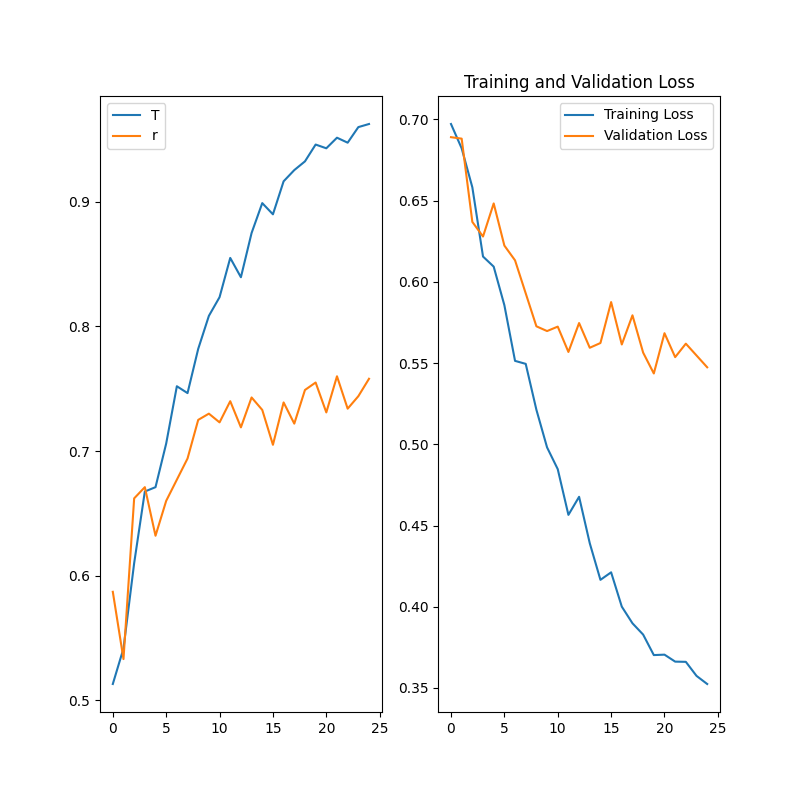
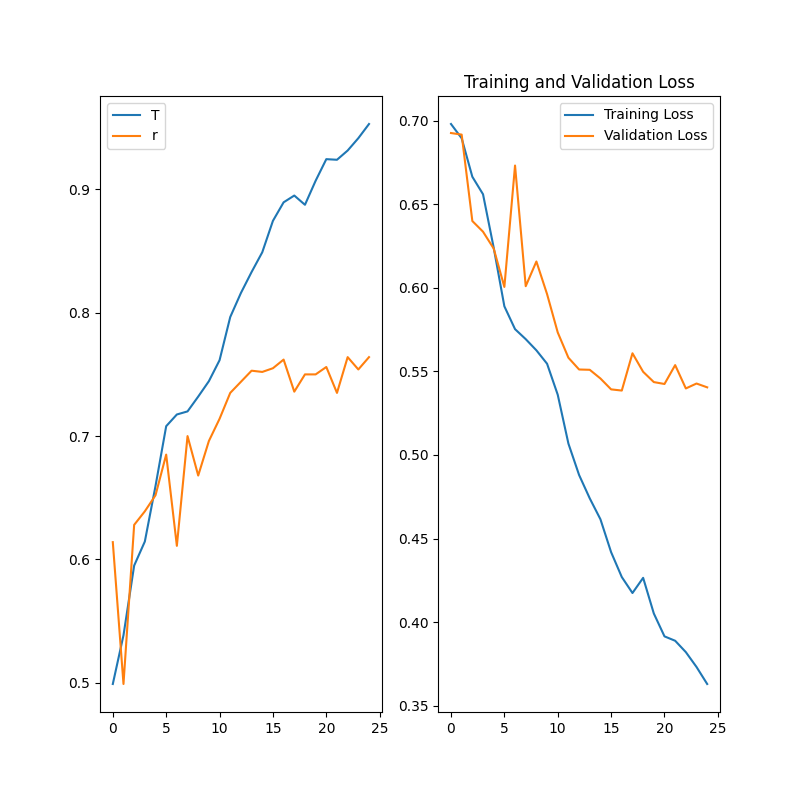
added flower classification

diff --git a/tensorflow/40_flower_classification.py b/tensorflow/40_flower_classification.py
@@ -1,0 +1,166 @@
+#!/usr/bin/env python3
+
+#######################################################
+#
+# Flower CNNs with Image Augmentation
+#
+#######################################################
+
+import tensorflow as tf
+from tensorflow.keras.preprocessing.image import ImageDataGenerator
+
+# helper libraries
+import os
+import matplotlib.pyplot as plt
+import numpy as np
+import shutil
+import glob
+
+import logging
+logger = tf.get_logger()
+logger.setLevel(logging.ERROR)
+
+
+#--------------------------------------
+# import flower pictures
+#--------------------------------------
+
+# goes to ~/.keras/datasets
+_URL     = 'https://storage.googleapis.com/download.tensorflow.org/example_images/flower_photos.tgz'
+zip_file = tf.keras.utils.get_file(origin=_URL,
+                                   fname="flower_photos.tgz",
+                                   extract=True)
+base_dir = os.path.join(os.path.dirname(zip_file), 'flower_photos')
+
+classes = ['roses', 'daisy', 'dandelion', 'sunflowers', 'tulips']
+
+for cl in classes:
+  img_path = os.path.join(base_dir, cl)
+  images = glob.glob(img_path + '/*.jpg')
+  print("{}: {} Images".format(cl, len(images)))
+  train, val = images[:round(len(images)*0.8)], images[round(len(images)*0.8):]
+
+  for t in train:
+    if not os.path.exists(os.path.join(base_dir, 'train', cl)):
+      os.makedirs(os.path.join(base_dir, 'train', cl))
+    shutil.copy(t, os.path.join(base_dir, 'train', cl))
+
+  for v in val:
+    if not os.path.exists(os.path.join(base_dir, 'val', cl)):
+      os.makedirs(os.path.join(base_dir, 'val', cl))
+    shutil.copy(v, os.path.join(base_dir, 'val', cl))
+
+train_dir = os.path.join(base_dir, 'train')
+val_dir   = os.path.join(base_dir, 'val')
+
+#----------------------
+# data prep
+#----------------------
+
+BATCH_SIZE = 100
+IMG_SHAPE  = 150
+
+def plotImages(images_arr):
+  fig, axes = plt.subplots(1, 5, figsize=(10,10))
+  axes = axes.flatten()
+  for img, ax in zip(images_arr, axes):
+    ax.imshow(img)
+  plt.tight_layout()
+  plt.show()
+
+
+# applying all sorts of augmentations 
+image_gen_train = ImageDataGenerator(
+  rescale=1./255,
+  rotation_range=45,
+  zoom_range=0.5,
+  horizontal_flip=True,
+  width_shift_range=0.15,
+  height_shift_range=0.15
+)
+
+train_data_gen = image_gen_train.flow_from_directory(batch_size=BATCH_SIZE,
+                                                     directory=train_dir,
+                                                     shuffle=True,
+                                                     target_size=(IMG_SHAPE,IMG_SHAPE),
+                                                     class_mode='sparse')
+
+image_gen_val = ImageDataGenerator(rescale=1./255)
+
+val_data_gen = image_gen_val.flow_from_directory(batch_size=BATCH_SIZE,
+                                                 directory=val_dir,
+                                                 shuffle=False,
+                                                 target_size=(IMG_SHAPE,IMG_SHAPE),
+                                                 class_mode='sparse')
+
+augmented_images = [train_data_gen[0][0][0] for i in range(5)]
+plotImages(augmented_images)
+
+
+#-------------------------------
+# model creation
+#-------------------------------
+
+model = tf.keras.models.Sequential([
+  tf.keras.layers.Conv2D(16, (3,3), activation='relu', input_shape=(150, 150, 3)),
+  tf.keras.layers.MaxPooling2D(2, 2),
+
+  tf.keras.layers.Conv2D(32, (3,3), activation='relu'),
+  tf.keras.layers.MaxPooling2D(2, 2),
+
+  tf.keras.layers.Conv2D(64, (3,3), activation='relu'),
+  tf.keras.layers.MaxPooling2D(2, 2),
+
+  tf.keras.layers.Conv2D(128, (3,3), activation='relu'),
+  tf.keras.layers.MaxPooling2D(2, 2),
+
+  tf.keras.layers.Flatten(),
+  tf.keras.layers.Dropout(0.2),
+  tf.keras.layers.Dense(512, activation='relu'),
+  tf.keras.layers.Dropout(0.2),
+  tf.keras.layers.Dense(5, activation='softmax')
+])
+
+model.compile(optimizer='adam',
+              loss=tf.keras.losses.SparseCategoricalCrossentropy(from_logits=True),
+              metrics=['accuracy'])
+
+print(model.summary())
+
+
+#-------------------------
+# train model
+#-------------------------
+
+EPOCHS = 100
+
+# tip: can use the .n to get the count for the DirectoryIterator object
+history = model.fit_generator(
+  train_data_gen,
+  steps_per_epoch=int(np.ceil(train_data_gen.n / float(BATCH_SIZE))),
+  epochs=EPOCHS,
+  validation_data=val_data_gen,
+  validation_steps=int(np.ceil(val_data_gen.n / float(BATCH_SIZE)))
+)
+
+acc = history.history['accuracy']
+val_acc = history.history['val_accuracy']
+
+loss = history.history['loss']
+val_loss = history.history['val_loss']
+
+epochs_range = range(EPOCHS)
+
+plt.figure(figsize=(8, 8))
+plt.subplot(1, 2, 1)
+plt.plot(epochs_range, acc, label='Training Accuracy')
+plt.plot(epochs_range, val_acc, label='Validation Accuracy')
+plt.legend('Training and Validation Accuracy')
+
+plt.subplot(1, 2, 2)
+plt.plot(epochs_range, loss, label='Training Loss')
+plt.plot(epochs_range, val_loss, label='Validation Loss')
+plt.legend(loc='upper right')
+plt.title('Training and Validation Loss')
+plt.savefig('./40_plot.png')
+plt.show()

diff --git a/tensorflow/32_cats_and_dogs.py b/tensorflow/32_cats_and_dogs.py
@@ -99,23 +99,25 @@ plotImages(sample_training_images[:5]) # plot images 0-4
 
 model = tf.keras.models.Sequential([
   tf.keras.layers.Conv2D(32, (3,3), activation='relu', input_shape=(150, 150, 3)),
-  tf.keras.layers.SpatialDropout2D(0.2),
+  #tf.keras.layers.SpatialDropout2D(0.2),
   tf.keras.layers.MaxPooling2D(2, 2),
 
   tf.keras.layers.Conv2D(64, (3,3), activation='relu'),
-  tf.keras.layers.SpatialDropout2D(0.2),
+  #tf.keras.layers.SpatialDropout2D(0.2),
   tf.keras.layers.MaxPooling2D(2, 2),
 
   tf.keras.layers.Conv2D(128, (3,3), activation='relu'),
-  tf.keras.layers.SpatialDropout2D(0.2),
+  #tf.keras.layers.SpatialDropout2D(0.2),
   tf.keras.layers.MaxPooling2D(2, 2),
 
   tf.keras.layers.Conv2D(128, (3,3), activation='relu'),
-  tf.keras.layers.SpatialDropout2D(0.2),
+  #tf.keras.layers.SpatialDropout2D(0.2),
   tf.keras.layers.MaxPooling2D(2, 2),
 
   tf.keras.layers.Flatten(),
+  tf.keras.layers.Dropout(0.2),
   tf.keras.layers.Dense(512, activation='relu'),
+  tf.keras.layers.Dropout(0.2),
   tf.keras.layers.Dense(2, activation='softmax')
 ])
 

diff --git a/tensorflow/33_cats_and_dogs.py b/tensorflow/33_cats_and_dogs.py
@@ -160,7 +160,9 @@ model = tf.keras.models.Sequential([
   tf.keras.layers.MaxPooling2D(2, 2),
 
   tf.keras.layers.Flatten(),
+  tf.keras.layers.Dropout(0.2),
   tf.keras.layers.Dense(512, activation='relu'),
+  tf.keras.layers.Dropout(0.2),
   tf.keras.layers.Dense(2, activation='softmax')
 ])
 

diff --git a/tensorflow/README.md b/tensorflow/README.md
@@ -1,6 +1,8 @@
 # README
 If you're running these from a MacOS (as I am) or Linux, you will need to compile your own TensorFlow as the default package you install via pip currently won't have a lot of CPU extensions that will speed up your CPU-only training.  I have outlined some of the steps I took to compiling my own [**here**](https://gist.github.com/Neutrollized/6a409146fcf02438852c27633a031d0f)
 
+I also recommend using [`pyenv`](https://realpython.com/intro-to-pyenv/) to setup your, uh, Python environment so you don't have to reinstall all your packages after an upgrade or whatnot.
+
 ## Dependencies
 - **tensorflow** (it will install other package requirements, including **numpy**)
 - **matplot**
